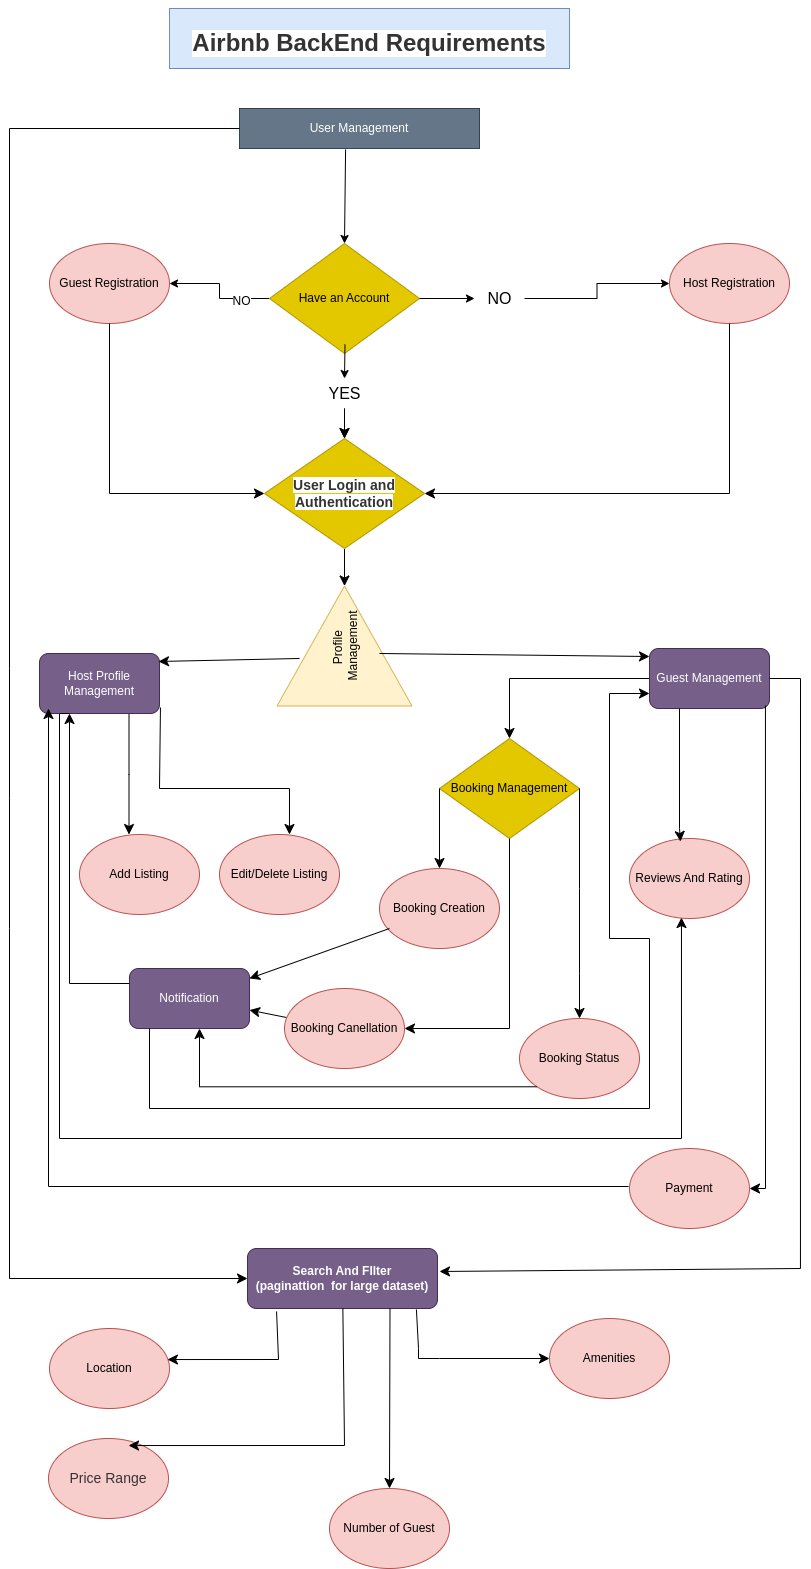
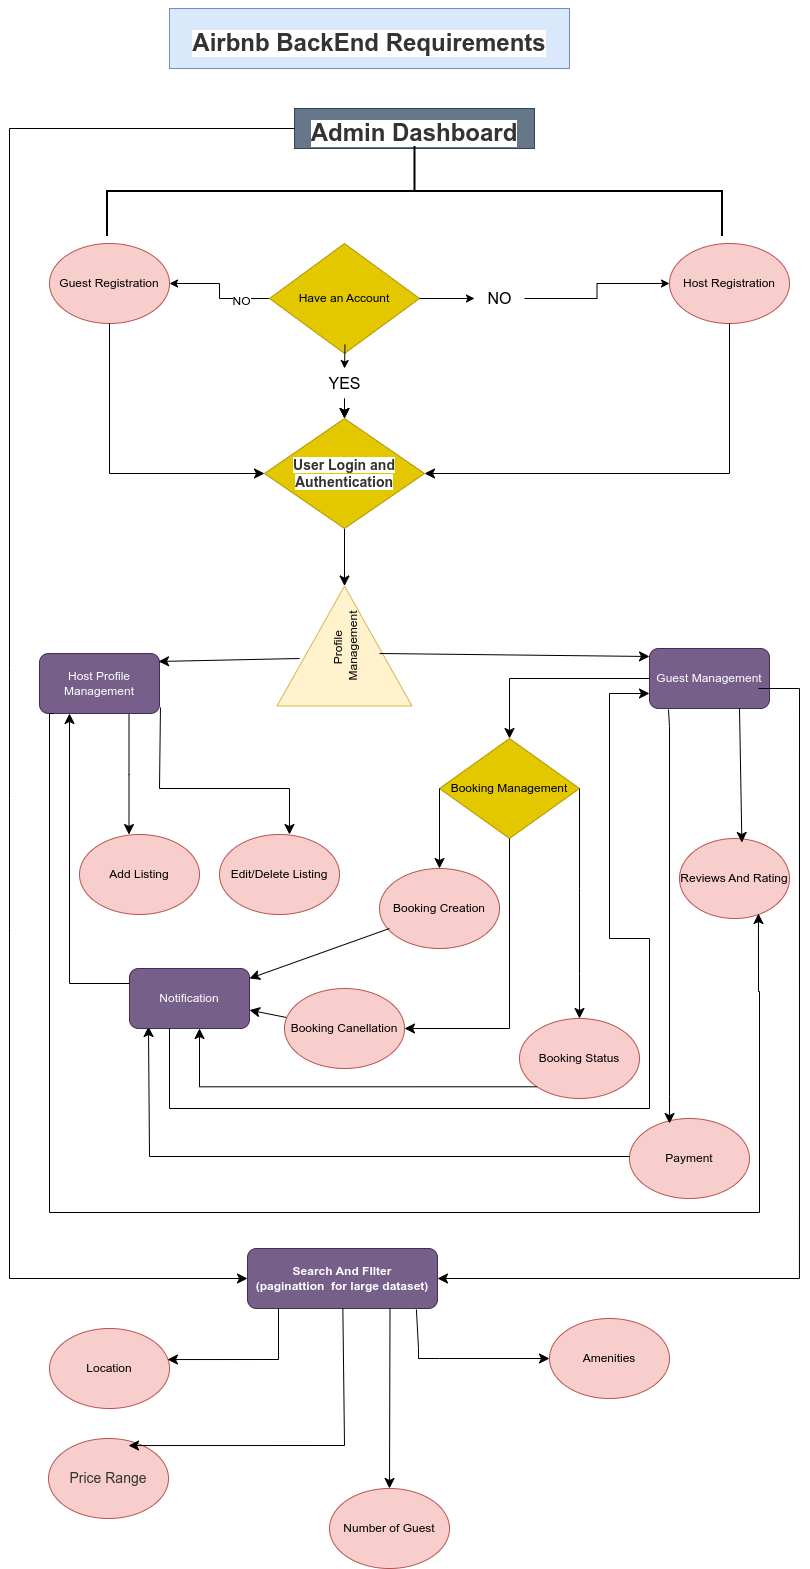
chore: update root readme admin dashboard

diff --git a/README.md b/README.md
@@ -1,0 +1,100 @@
+# Airbnb Backend Planning Project
+
+This repository documents the backend requirements, features, and functionalities necessary to create a robust and scalable Airbnb Clone. The project aims to break down essential components, provide a clear understanding of technical requirements, and prepare for the implementation phase.
+
+---
+
+## 📋 Project Overview
+
+The goal is to identify and define the core backend functionalities, technical requirements, and non-functional requirements for an Airbnb-style rental marketplace. This will serve as a blueprint for developing a backend system that supports key features such as user management, property management, bookings, payments, and more.
+
+---
+
+## 📂 Project Structure
+
+### 1. **Core Functionalities**
+   - **User Management**: Registration, login, OAuth, and profile management.
+   - **Property Listings**: Add, edit, delete, and upload property images.
+   - **Search and Filtering**: Advanced search with filters for location, price, amenities, etc.
+   - **Booking Management**: Handle booking creation, cancellation, and status tracking.
+   - **Payments**: Secure payment gateways and automated payouts.
+   - **Reviews and Ratings**: Allow users to leave reviews and hosts to respond.
+   - **Notifications**: Email and in-app notifications for key actions.
+   - **Admin Dashboard**: Monitor and manage users, properties, bookings, and payments.
+
+### 2. **Technical Requirements**
+   - **Database Management**: Use relational databases like PostgreSQL or MySQL.
+   - **API Development**: RESTful APIs with optional GraphQL support.
+   - **Authentication and Authorization**: JWT-based authentication and role-based access control (RBAC).
+   - **File Storage**: Cloud storage for property and user images.
+   - **Third-Party Services**: Integration with services like SendGrid for notifications.
+
+### 3. **Non-Functional Requirements**
+   - Scalability
+   - Security
+   - Performance Optimization
+   - Testing
+
+---
+
+## 🛠 Tech Stack
+
+- **Backend Framework**: Node.js, Express.js, or a similar framework.
+- **Database**: PostgreSQL/MySQL
+- **Authentication**: JWT and OAuth (e.g., Google, Facebook)
+- **Cloud Storage**: AWS S3 or Cloudinary
+- **Payments**: Stripe or PayPal
+- **Notifications**: SendGrid or Mailgun
+
+---
+
+## 🗂 Diagram
+
+The project architecture and feature relationships are illustrated in the [Enhanced Airbnb Backend Features Diagram](AirBnB.png). 
+
+---
+
+## 🚀 Getting Started
+
+### 1. **Setup**
+   - Clone the repository: `git clone https://github.com/konditi1/alx-airbnb-project-documentation.git`
+   - Navigate to the directory: `cd alx-airbnb-project-documentation`
+
+### 2. **Installation**
+   - Install dependencies: `npm install`
+
+### 3. **Run Development Server**
+   - Start the server: `npm run dev`
+
+---
+
+## 📖 Documentation
+
+Detailed documentation on the backend planning is available in:
+   - [Feature Breakdown](docs/features.md)
+   - [Database Design](docs/database.md)
+   - [API Endpoints](docs/api.md)
+
+---
+
+## 📬 Contributions
+
+Contributions are welcome! To contribute:
+1. Fork the repository.
+2. Create a feature branch: `git checkout -b feature-name`.
+3. Commit changes: `git commit -m "Add feature-name"`.
+4. Push to the branch: `git push origin feature-name`.
+5. Open a pull request.
+
+---
+
+## 🧑💻 Authors
+
+- **Olwal Fena** - Project Lead  
+- **Non for Now** - Collaborators
+
+---
+
+## 📜 License
+
+This project is licensed under the MIT License - see the [LICENSE](LICENSE) file for details.
